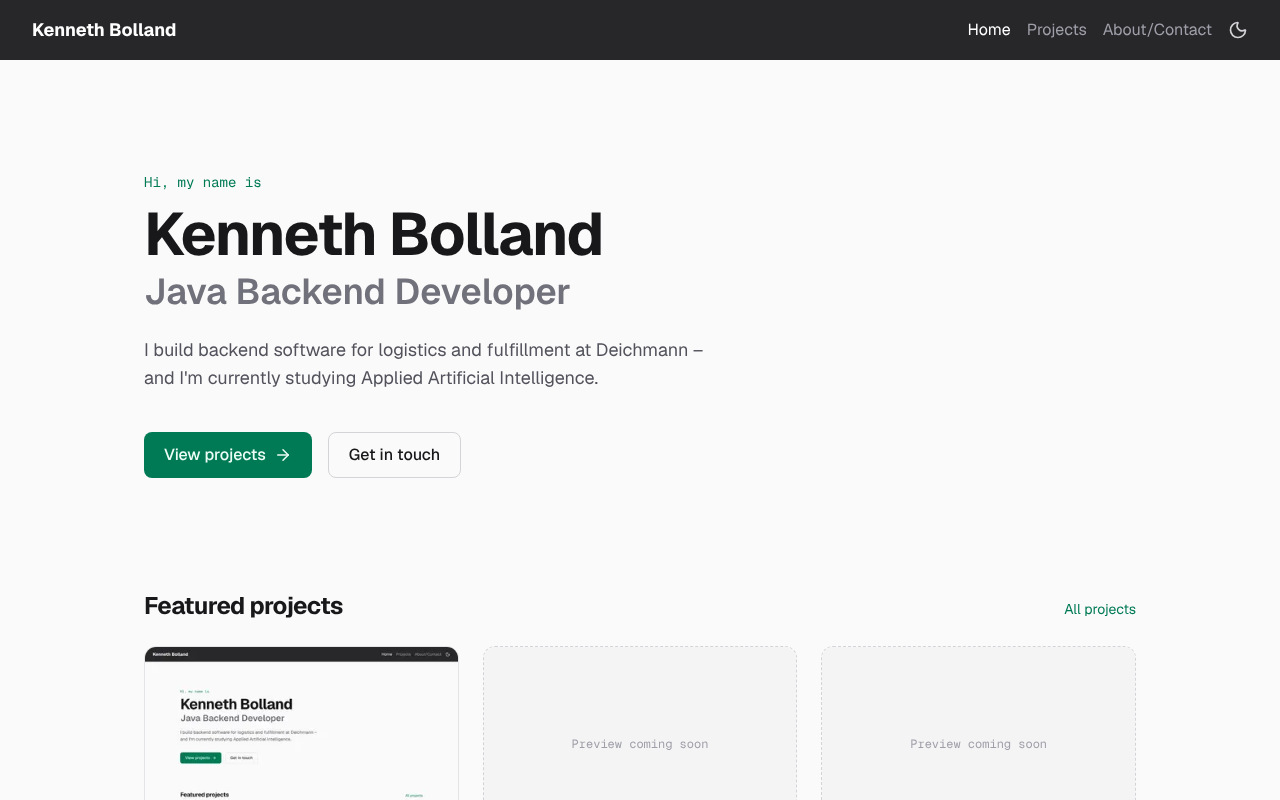
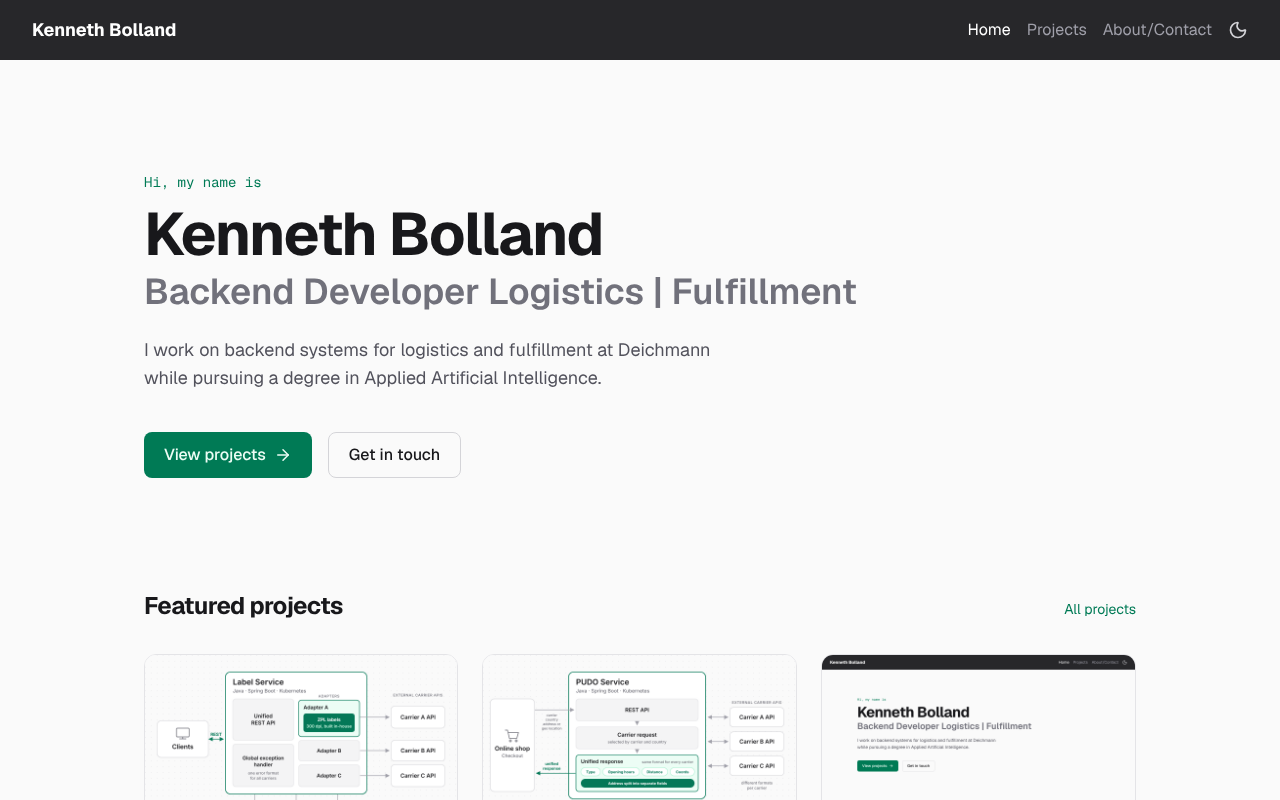
Change hero role to Backend Developer Logistics | Fulfillment
Regenerate the social preview image and the portfolio project preview.

Claude-Session: https://claude.ai/code/session_01AG9wsFSoqPWPe6Zy9K1aJj

diff --git a/src/app/data/site.ts b/src/app/data/site.ts
@@ -1,7 +1,8 @@
 // Zentrale Inhalte der Seite (Entwurf auf Basis des LinkedIn-Profils).
 export const site = {
   name: "Kenneth Bolland",
-  role: "Java Backend Developer",
+  // Geschützte Leerzeichen + Word Joiner: „Logistics | Fulfillment“ bricht nicht um
+  role: "Backend Developer Logistics\u00a0\u2060|\u2060\u00a0Fulfillment",
   tagline:
     "I work on backend systems for logistics and fulfillment at Deichmann while pursuing a degree in Applied Artificial Intelligence.",
   about: [

diff --git a/docs/diagrams/og-image.html b/docs/diagrams/og-image.html
@@ -22,7 +22,7 @@
   <div class="content">
     <p class="hi">Hi, my name is</p>
     <h1>Kenneth Bolland</h1>
-    <h2>Java Backend Developer</h2>
+    <h2>Backend Developer Logistics | Fulfillment</h2>
     <div class="tags"><div class="tag">Java</div><div class="tag">Spring Boot</div><div class="tag">Azure</div><div class="tag">Kubernetes</div></div>
   </div>
   <div class="url"><span></span>jonnef.dev</div>
